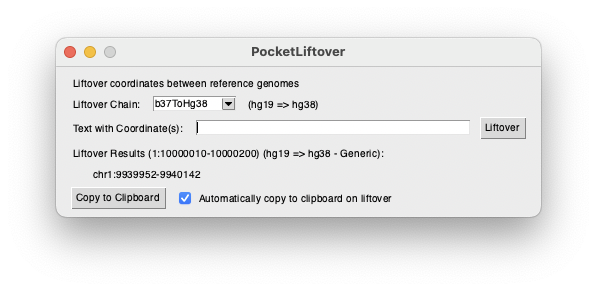
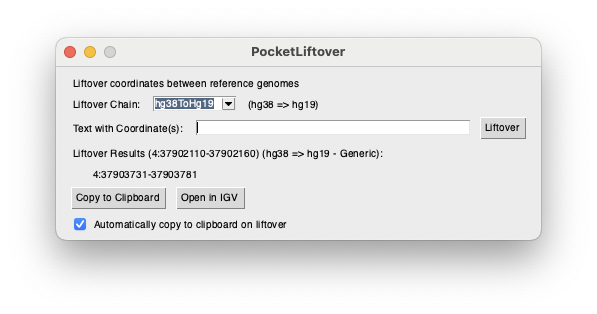
- Added a button to open results in IGV - Buttons are disabled if no valid liftover is present - Updated ChAS example to support only selecting the first coordinate of a loci range

Changed region(s): [[0.0905, 0.1237, 0.9045, 0.7732], [0.8141, 0.3711, 0.8744, 0.4948]]

diff --git a/pocketliftover/gui/main.py b/pocketliftover/gui/main.py
@@ -1,4 +1,5 @@
 import re
+import webbrowser
 
 import FreeSimpleGUI as Sg
 
@@ -40,7 +41,9 @@ def main_window():
         ], [
             Sg.Text(' ', size=(1, 1)), Sg.Text('', key='LIFTOVERRESULTS')
         ], [
-            Sg.Button('Copy to Clipboard', key='-CLIPBOARD-'),
+            Sg.Button('Copy to Clipboard', key='-CLIPBOARD-', disabled=True),
+            Sg.Button('Open in IGV', key='-OPENINIGV-', disabled=True),
+        ], [
             Sg.Checkbox('Automatically copy to clipboard on liftover', default=automatically_copy_to_clipboard,
                         enable_events=True, key='-AUTOCLIPBOARD-'),
         ]
@@ -74,8 +77,11 @@ def main_window():
         if event == '-AUTOCLIPBOARD-':
             Config.set_automatically_copy_to_clipboard(values['-AUTOCLIPBOARD-'])
         if event == '-LIFTOVER-' or event == 'LIFTOVERTEXT' + '_Enter':
-            automatically_copy_to_clipboard = values['-AUTOCLIPBOARD-']
+            window.Element('-CLIPBOARD-').Update(disabled=True)
+            window.Element('-OPENINIGV-').Update(disabled=True)
             window.Element('LIFTOVERPARAMS').Update("Liftover Results (None):")
+            window.Element('LIFTOVERRESULTS').Update('')
+            automatically_copy_to_clipboard = values['-AUTOCLIPBOARD-']
             chainfile_label = values['CHAINFILE']
             if chainfile_label is None or chainfile_label == '':
                 Sg.popup_error('Please add a valid chainfile', title='No Valid Chainfile')
@@ -108,10 +114,12 @@ def main_window():
                     except IndexError:
                         pass
             if source is None:
-                Sg.popup_error(f"Failed to find coordinates in [{liftover_text}] using any existing patterns")
+                Sg.popup_error(f"Failed to find coordinates in [{liftover_text}] using any existing patterns",
+                               title='No Matching Pattern')
                 continue
             if chrom is None or start is None:
-                Sg.popup_error("Pattern must use ?P<chrom>, ?P<start>, and ?P<end> for successful capture")
+                Sg.popup_error(f"Pattern {source} must use ?P<chrom>, ?P<start>, and ?P<end> for " +
+                               "successful capture", title='Invalid Pattern')
                 continue
             try:
                 lifted_beginning = lifter.liftover_coordinate(chrom, start)
@@ -146,9 +154,14 @@ def main_window():
                 f"Liftover Results ({chrom}:{start}{f'-{end}' if end else ''}) " +
                 f"({chainfile.source_type} => {chainfile.destination_type} - {source}):")
             window.Element('LIFTOVERRESULTS').Update(liftover_result)
+            window.Element('-CLIPBOARD-').Update(disabled=False)
+            window.Element('-OPENINIGV-').Update(disabled=False)
             window.Element('LIFTOVERTEXT').Update('')
         if event == '-CLIPBOARD-':
             Sg.clipboard_set(window.Element('LIFTOVERRESULTS').get())
+            window.Element('LIFTOVERTEXT').set_focus(True)
+        if event == '-OPENINIGV-':
+            webbrowser.open(f"http://localhost:60151/goto?locus={window.Element('LIFTOVERRESULTS').get()}")
             window.Element('LIFTOVERTEXT').set_focus(True)
         window.Refresh()
     window.close()

diff --git a/README.md b/README.md
@@ -56,7 +56,7 @@ Search patterns use Python regular expressions (regex) to extract genomic coordi
 
 #### Example Search Patterns:
 - Generic `(?P<chrom>((?:chr)?[0-9xXyY]+))(?::(?P<start>[0-9]+))(?:-(?P<end>[0-9]+))?`
-- ChAS `(?P<chrom>\w+)(?:p|q).*\((?P<start>[0-9]+)_(?P<end>[0-9]+).*`
+- ChAS `(?P<chrom>\w+)(?:p|q).*\((?P<start>[0-9]+)_?(?P<end>[0-9]*).*`
 
 #### Adding Search Patterns
 To add a pattern, open `File` -> `Preferences`, navigate to the `Search Patterns` tab, and click `Add Search Pattern`:
